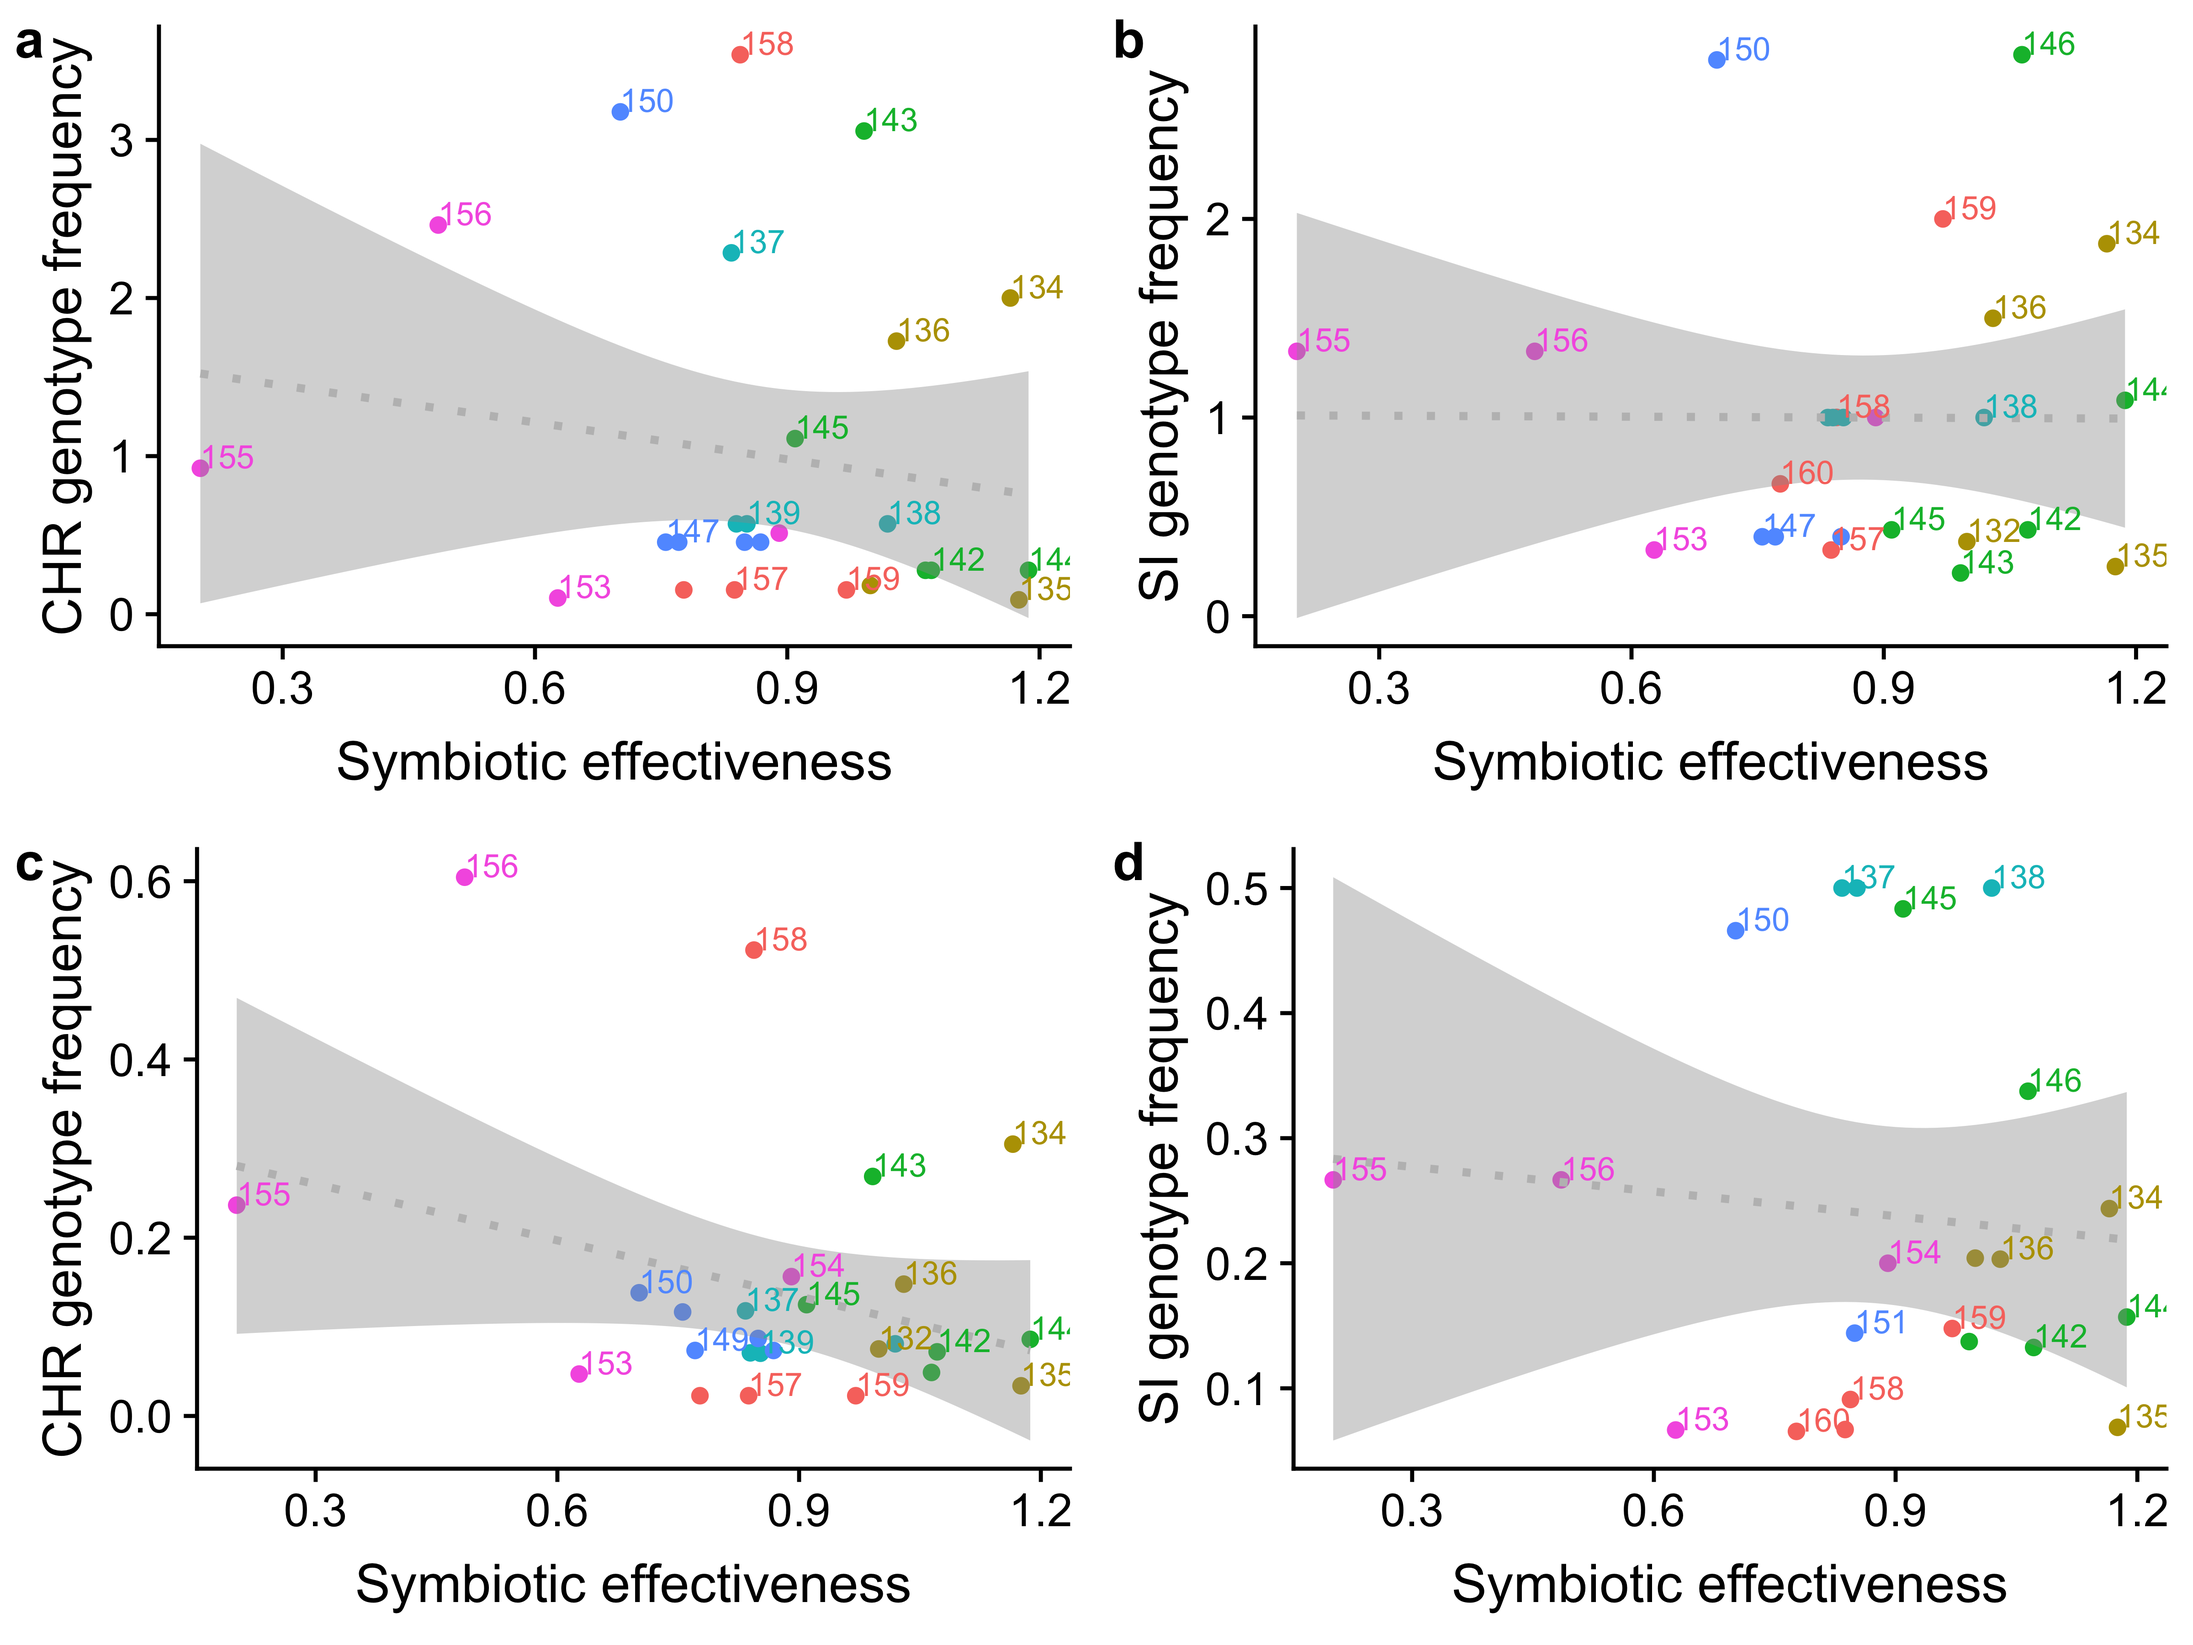
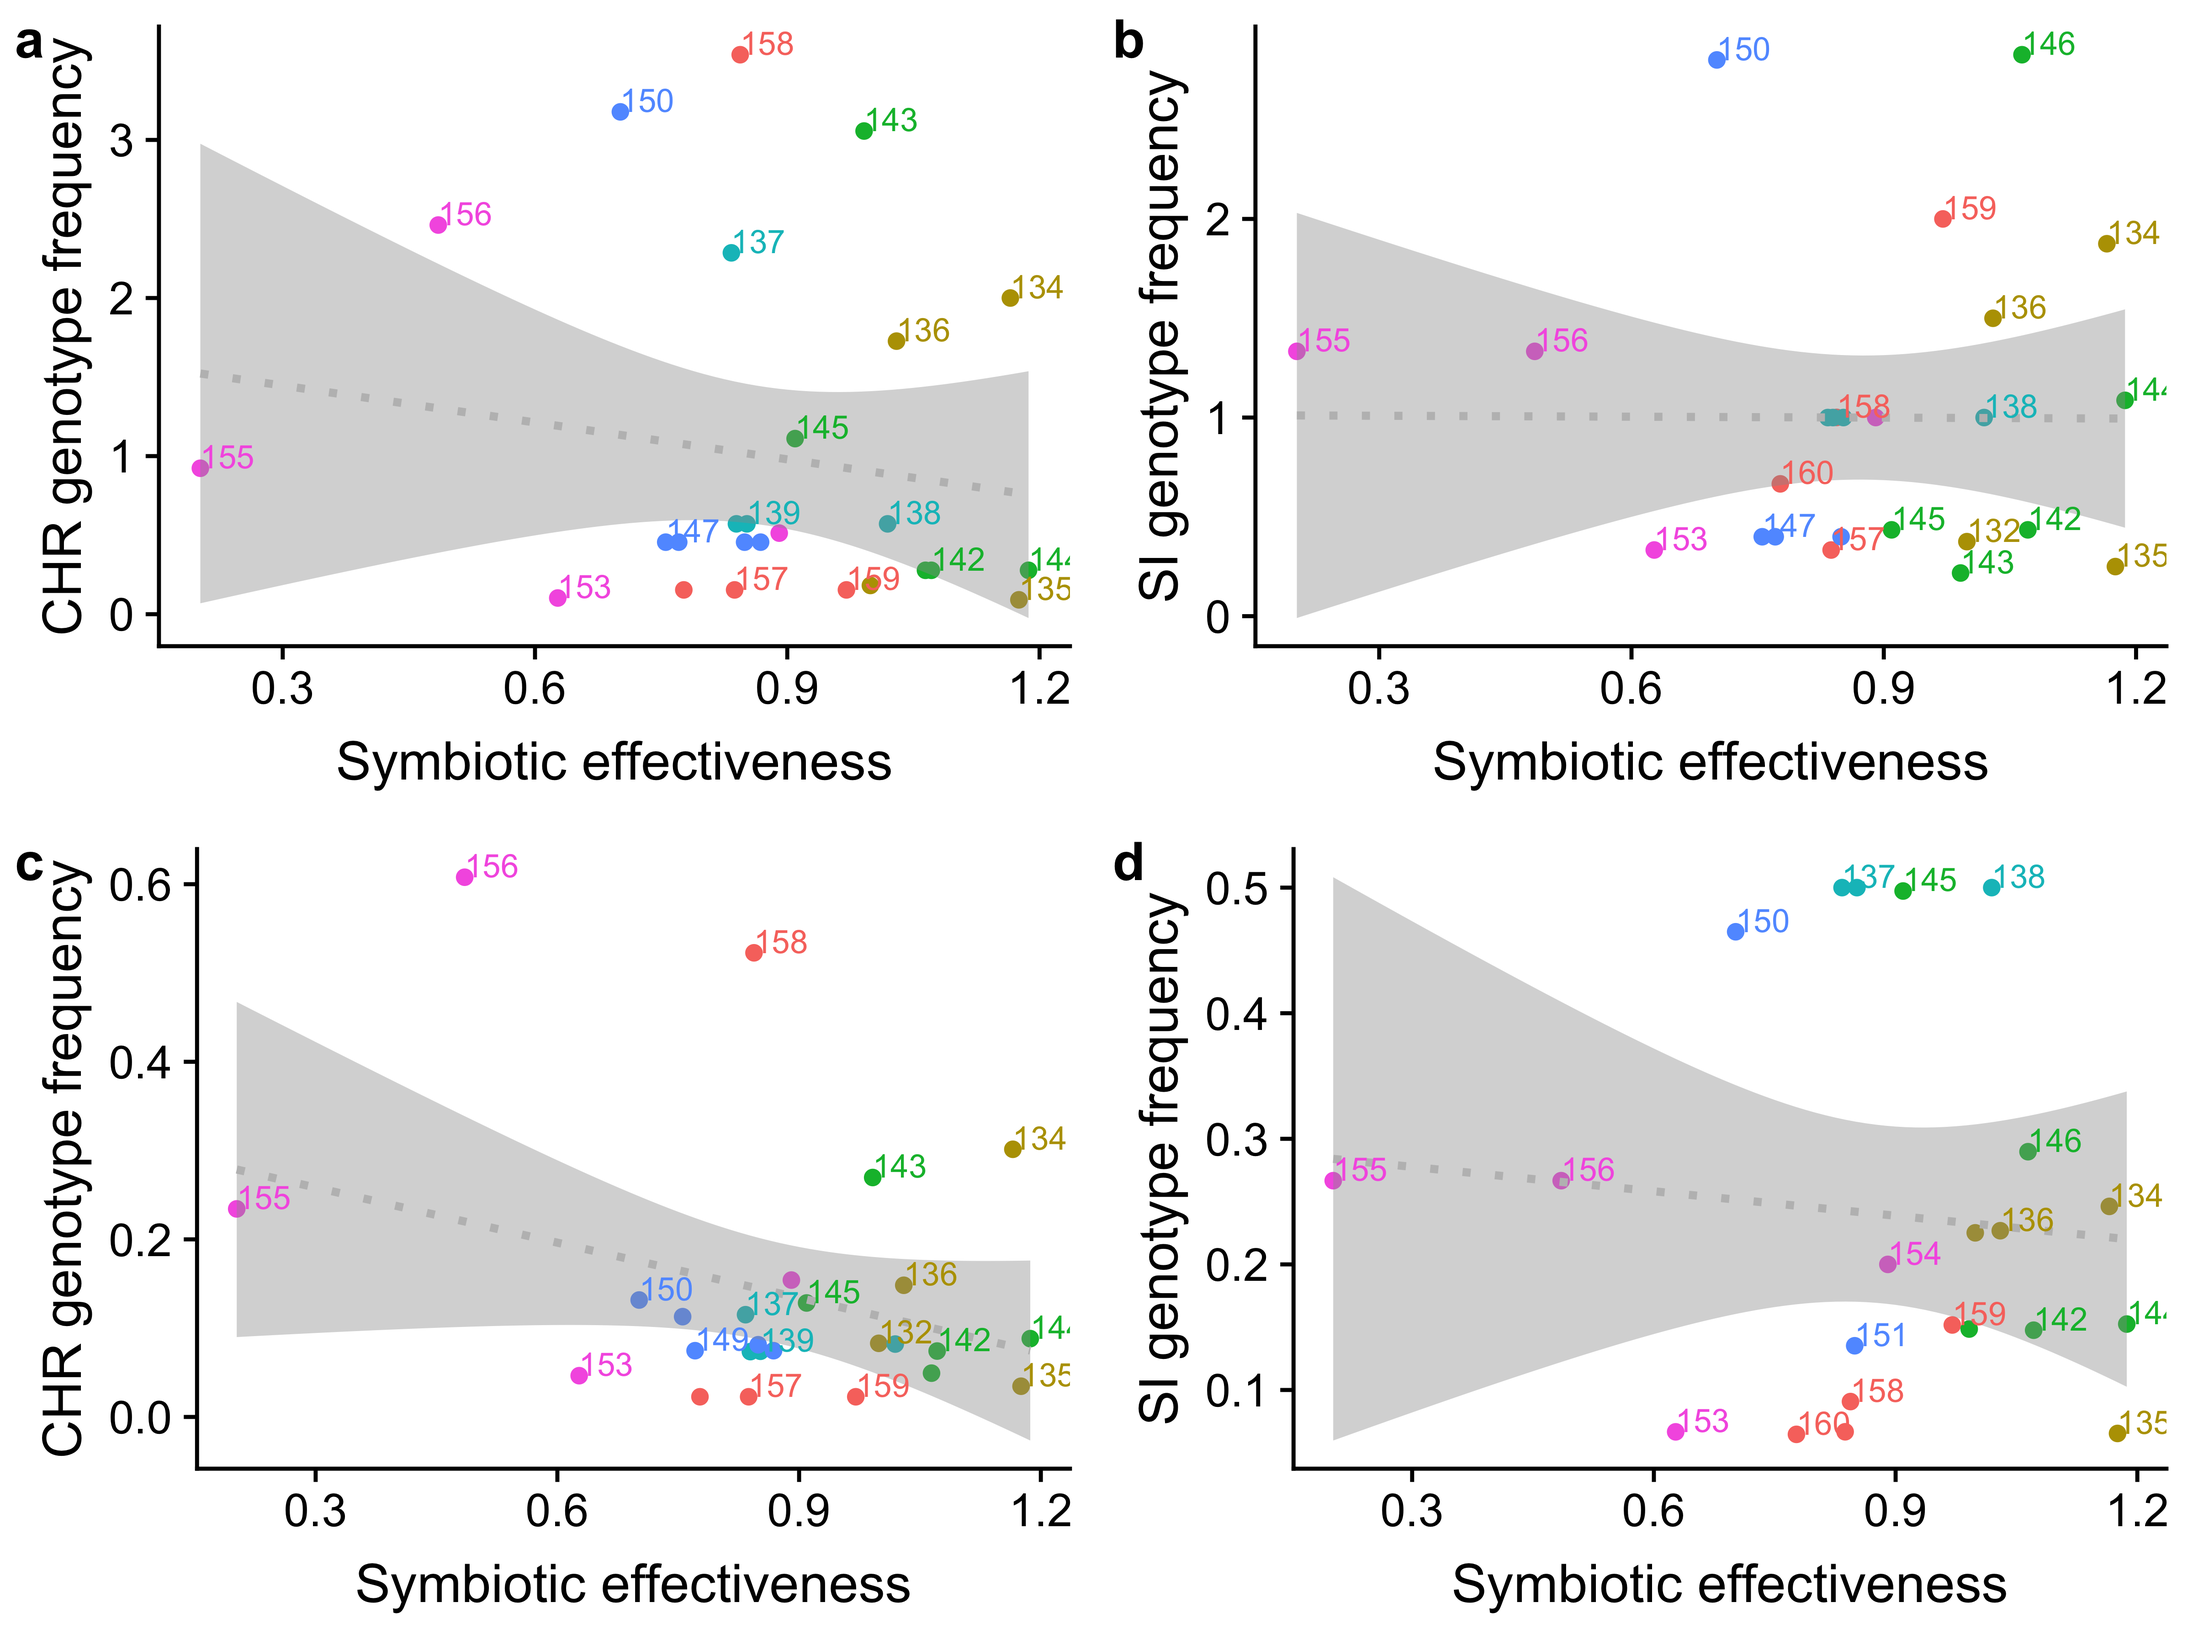
Commit from RStudio

diff --git a/README.md b/README.md
@@ -1,7 +1,7 @@
 Are rhizobia under selection to cheat?
 ================
 Megan Frederickson
-2019-04-26
+2019-04-30
 
 Is there fitness conflict between legumes and rhizobia?
 -------------------------------------------------------
@@ -169,8 +169,8 @@ CHR <- ggplot(data=df, aes(y=`CHR genotype frequency`, x=CHR_plants_sampled, col
 
 SI <- ggplot(data=df, aes(y=`SI genotype frequency`, x=SI_plants_sampled, color=Population)) +geom_smooth(method="lm", se=TRUE, color=1)+geom_point()+xlab("Plants sampled (no.)")+ylab("SI genotype frequency")+geom_text(aes(label=Strain),hjust=0, vjust=0, size=2.5, nudge_x = 0.05, check_overlap=TRUE)+scale_x_continuous(limits=c(0, 23))+guides(color=FALSE)
 
-fig <- plot_grid(CHR, SI, nrow=2, labels="auto") 
-fig #Show figure
+fig.plants <- plot_grid(CHR, SI, nrow=2, labels="auto") 
+fig.plants #Show figure
 ```
 
 ![](README_files/figure-markdown_github/Data%20distributions-1.png)
@@ -459,9 +459,10 @@ new.Fig5ab
 Method 2: Down-sample each population to minimum sample sizes and re-calculate genotype frequencies
 ---------------------------------------------------------------------------------------------------
 
-Finally, I down-sampled each population 100 times to either 2 or 4 plants for SI and CHR, respectively, as these were the minimum number of plants sampled per population to calculate SI or CHR frequencies, and then I recalculated genotype frequencies. For each population, I took the mean genotype frequency across the 100 iterations and re-analyzed the relationship between genotype frequency and symbiotic effectiveness. Again, the relationships were never significatnt after accounting for uneven sampling.
+I down-sampled each population 100 times to either 2 or 4 plants for SI and CHR, respectively, as these were the minimum number of plants sampled per population to calculate SI or CHR frequencies, and then I recalculated genotype frequencies. For each population, I took the mean genotype frequency across the 100 iterations and re-analyzed the relationship between genotype frequency and symbiotic effectiveness. Again, the relationships were never significatnt after accounting for uneven sampling.
 
 ``` r
+#First, subsample plants
 #I did this separately for CHR and SI genotype frequencies
 #CHR first
 CHR.min <- 4 #Minimum number of plants sampled (in ANZ population)
@@ -537,18 +538,18 @@ summary(model9) #Non-significant
     ## 
     ## Residuals:
     ##      Min       1Q   Median       3Q      Max 
-    ## -0.14427 -0.07203 -0.04010  0.00745  0.38330 
+    ## -0.14423 -0.06916 -0.04308  0.00907  0.38774 
     ## 
     ## Coefficients:
     ##                Estimate Std. Error t value Pr(>|t|)  
-    ## (Intercept)      0.3231     0.1166   2.772   0.0106 *
-    ## mean_log10_RGR  -0.2101     0.1297  -1.621   0.1181  
+    ## (Intercept)      0.3205     0.1167   2.746   0.0113 *
+    ## mean_log10_RGR  -0.2070     0.1298  -1.594   0.1239  
     ## ---
     ## Signif. codes:  0 '***' 0.001 '**' 0.01 '*' 0.05 '.' 0.1 ' ' 1
     ## 
-    ## Residual standard error: 0.1401 on 24 degrees of freedom
-    ## Multiple R-squared:  0.09866,    Adjusted R-squared:  0.0611 
-    ## F-statistic: 2.627 on 1 and 24 DF,  p-value: 0.1181
+    ## Residual standard error: 0.1403 on 24 degrees of freedom
+    ## Multiple R-squared:  0.09579,    Adjusted R-squared:  0.05811 
+    ## F-statistic: 2.542 on 1 and 24 DF,  p-value: 0.1239
 
 ``` r
 #Fit model for mean SI genotype frequency from re-sampling and RGR
@@ -562,18 +563,18 @@ summary(model10) #Non-significant
     ## 
     ## Residuals:
     ##      Min       1Q   Median       3Q      Max 
-    ## -0.18889 -0.09622 -0.03267  0.08888  0.27019 
+    ## -0.18979 -0.10120 -0.02837  0.05239  0.26899 
     ## 
     ## Coefficients:
     ##                Estimate Std. Error t value Pr(>|t|)  
-    ## (Intercept)     0.29672    0.13702   2.165   0.0426 *
-    ## mean_log10_RGR -0.06564    0.14987  -0.438   0.6661  
+    ## (Intercept)     0.29713    0.13645   2.178   0.0416 *
+    ## mean_log10_RGR -0.06487    0.14925  -0.435   0.6685  
     ## ---
     ## Signif. codes:  0 '***' 0.001 '**' 0.01 '*' 0.05 '.' 0.1 ' ' 1
     ## 
-    ## Residual standard error: 0.16 on 20 degrees of freedom
-    ## Multiple R-squared:  0.009499,   Adjusted R-squared:  -0.04003 
-    ## F-statistic: 0.1918 on 1 and 20 DF,  p-value: 0.6661
+    ## Residual standard error: 0.1593 on 20 degrees of freedom
+    ## Multiple R-squared:  0.009358,   Adjusted R-squared:  -0.04017 
+    ## F-statistic: 0.1889 on 1 and 20 DF,  p-value: 0.6685
 
 ``` r
 #Make figures
@@ -592,3 +593,164 @@ full.new.Fig5
 ``` r
 save_plot("Fig2.png", full.new.Fig5, base_width=8, base_height=8)
 ```
+
+Is the number of nodules sampled per population negatively correlated with genotype frequency?
+----------------------------------------------------------------------------------------------
+
+Yes, for SI genotype frequency. Not significantly so, for CHR genotype frequency.
+
+``` r
+#Model relationship between SI frequency and number of nodules sampled
+model11 <- lm(`SI genotype frequency`~SI_nods_sampled, data=df)
+summary(model11) #Significant correlation
+```
+
+    ## 
+    ## Call:
+    ## lm(formula = `SI genotype frequency` ~ SI_nods_sampled, data = df)
+    ## 
+    ## Residuals:
+    ##       Min        1Q    Median        3Q       Max 
+    ## -0.120848 -0.077841 -0.001284  0.055929  0.194952 
+    ## 
+    ## Coefficients:
+    ##                   Estimate Std. Error t value Pr(>|t|)    
+    ## (Intercept)      0.2004164  0.0292183   6.859  5.4e-07 ***
+    ## SI_nods_sampled -0.0015864  0.0005188  -3.058  0.00558 ** 
+    ## ---
+    ## Signif. codes:  0 '***' 0.001 '**' 0.01 '*' 0.05 '.' 0.1 ' ' 1
+    ## 
+    ## Residual standard error: 0.09272 on 23 degrees of freedom
+    ##   (1 observation deleted due to missingness)
+    ## Multiple R-squared:  0.289,  Adjusted R-squared:  0.2581 
+    ## F-statistic:  9.35 on 1 and 23 DF,  p-value: 0.005578
+
+``` r
+#Model relationship between CHR frequency and number of nodules sampled
+model12 <- lm(`CHR genotype frequency`~CHR_nods_sampled, data=df)
+summary(model12) #Non-significant correlation
+```
+
+    ## 
+    ## Call:
+    ## lm(formula = `CHR genotype frequency` ~ CHR_nods_sampled, data = df)
+    ## 
+    ## Residuals:
+    ##      Min       1Q   Median       3Q      Max 
+    ## -0.11320 -0.08606 -0.06313  0.00482  0.47660 
+    ## 
+    ## Coefficients:
+    ##                    Estimate Std. Error t value Pr(>|t|)  
+    ## (Intercept)       0.1899616  0.0757865   2.507   0.0194 *
+    ## CHR_nods_sampled -0.0013117  0.0009393  -1.396   0.1754  
+    ## ---
+    ## Signif. codes:  0 '***' 0.001 '**' 0.01 '*' 0.05 '.' 0.1 ' ' 1
+    ## 
+    ## Residual standard error: 0.1505 on 24 degrees of freedom
+    ## Multiple R-squared:  0.07515,    Adjusted R-squared:  0.03661 
+    ## F-statistic:  1.95 on 1 and 24 DF,  p-value: 0.1754
+
+``` r
+#Make figure
+CHR.nods <- ggplot(data=df, aes(y=`CHR genotype frequency`, x=CHR_nods_sampled, color=Population))+geom_point()+ geom_smooth(method="lm", se=TRUE, color="grey", linetype="dotted")+xlab("Nodules sampled (no.)")+ylab("CHR genotype frequency")+geom_text(aes(label=Strain),hjust=0, vjust=0, size=2.5, nudge_x = 0.05, check_overlap=TRUE)+theme(legend.position = c(0.7,0.7))
+
+SI.nods <- ggplot(data=df, aes(y=`SI genotype frequency`, x=SI_nods_sampled, color=Population)) +geom_smooth(method="lm", se=TRUE, color="black")+geom_point()+xlab("Nodules sampled (no.)")+ylab("SI genotype frequency")+geom_text(aes(label=Strain),hjust=0, vjust=0, size=2.5, nudge_x = 0.05, check_overlap=TRUE)+guides(color=FALSE)
+
+fig.nods <- plot_grid(CHR.nods, SI.nods, nrow=2, labels="auto") 
+```
+
+    ## Warning: Removed 1 rows containing non-finite values (stat_smooth).
+
+    ## Warning: Removed 1 rows containing missing values (geom_point).
+
+    ## Warning: Removed 1 rows containing missing values (geom_text).
+
+``` r
+fig.nods #Show figure
+```
+
+![](README_files/figure-markdown_github/Nodules%20as%20samples-1.png)
+
+Are nodules independent samples?
+================================
+
+``` r
+#Real data
+real.data <- table_S1.long %>% group_by(Population, locus, Plant_ID) %>% summarize(total_nods_sampled=n(), n_unique_haplotypes = length(unique(haplotype)))
+
+#Randomize plants within population 
+random.table_S1 <- data.frame(Full_Strain_Name = character(), Plant_ID = character(), Year=integer(), Population=character(), locus=character(), haplotype=character(), permutation=integer(), stringsAsFactors = FALSE)
+
+for(j in 1:100) {
+
+for(i in 1:6) {
+  random <- table_S1.long[which(table_S1.long$locus == "SI_haplotype" & table_S1.long$Population == pop[i]), ] 
+  random$haplotype <- sample(random$haplotype, replace=FALSE)
+  random$permutation <- j
+  random.table_S1 <- rbind(random.table_S1, random)
+}
+
+for(i in 1:6) {
+  random <- table_S1.long[which(table_S1.long$locus == "CHR_haplotype" & table_S1.long$Population == pop[i]), ] 
+  random$haplotype <- sample(random$haplotype, replace=FALSE)
+  random$permutation <- j
+  random.table_S1 <- rbind(random.table_S1, random)
+  
+}
+
+}
+
+random.data <- random.table_S1 %>% group_by(Population, locus, Plant_ID, permutation) %>% summarize(total_nods_sampled=n(), n_unique_haplotypes = length(unique(haplotype)))
+
+random.data <- random.data %>% group_by(Population, locus, Plant_ID) %>% summarize(total_nods_sampled=mean(total_nods_sampled), mean_n_unique_haplotypes = mean(n_unique_haplotypes))
+
+plot <- ggplot()+
+        geom_point(data=real.data, aes(x=total_nods_sampled, y=n_unique_haplotypes))+
+        geom_smooth(data=real.data, aes(x=total_nods_sampled, y=n_unique_haplotypes), method="lm", color="red")+
+        geom_smooth(data=random.data, aes(x=total_nods_sampled, y=mean_n_unique_haplotypes), method="lm", color="blue")+
+        facet_wrap(~locus)
+plot
+```
+
+![](README_files/figure-markdown_github/unnamed-chunk-1-1.png)
+
+Are nodules independent within plants?
+--------------------------------------
+
+I re-calculated haplotype frequencies within each plant, and compare them to haplotype frequencies in the population in general.
+
+``` r
+library(diptest) #For testing modality in distributions
+
+#Calculate frequency of each genotype within each plant
+per_plant <- table_S1.long %>% group_by(Population, locus, Plant_ID) %>% summarize(total_plant_nodules=n())
+per_haplotype <- table_S1.long %>% group_by(Population, locus, Plant_ID, haplotype) %>% summarize(nodules=n())
+df.SI.freq <- merge(subset(per_plant, locus == "SI_haplotype"), subset(per_haplotype, locus=="SI_haplotype"), by="Plant_ID")
+df.SI.freq <- df.SI.freq[ , c(2,1,7,8,4)]
+colnames(df.SI.freq) <- c("Population", "Plant_ID", "SI_haplotype", "Nodules", "Total_plant_nodules")
+df.CHR.freq <- merge(subset(per_plant, locus == "CHR_haplotype"), subset(per_haplotype, locus=="CHR_haplotype"), by="Plant_ID")
+df.CHR.freq <- df.CHR.freq[ , c(2,1,7,8,4)]
+colnames(df.CHR.freq) <- c("Population", "Plant_ID", "CHR_haplotype", "Nodules", "Total_plant_nodules")
+df.SI.freq$Per_plant_frequency <- df.SI.freq$Nodules/df.SI.freq$Total_plant_nodules
+df.CHR.freq$Per_plant_frequency <- df.CHR.freq$Nodules/df.CHR.freq$Total_plant_nodules
+
+dip.test(df.SI.freq$Per_plant_frequency) #Significantly non-unimodal
+```
+
+    ## 
+    ##  Hartigans' dip test for unimodality / multimodality
+    ## 
+    ## data:  df.SI.freq$Per_plant_frequency
+    ## D = 0.059603, p-value = 0.0003859
+    ## alternative hypothesis: non-unimodal, i.e., at least bimodal
+
+``` r
+dip.test(df.CHR.freq$Per_plant_frequency) #Significantly non-uni-modal
+```
+
+    ## 
+    ##  Hartigans' dip test for unimodality / multimodality
+    ## 
+    ## data:  df.CHR.freq$Per_plant_frequency
+    ## D = 0.09949, p-value < 2.2e-16
+    ## alternative hypothesis: non-unimodal, i.e., at least bimodal
